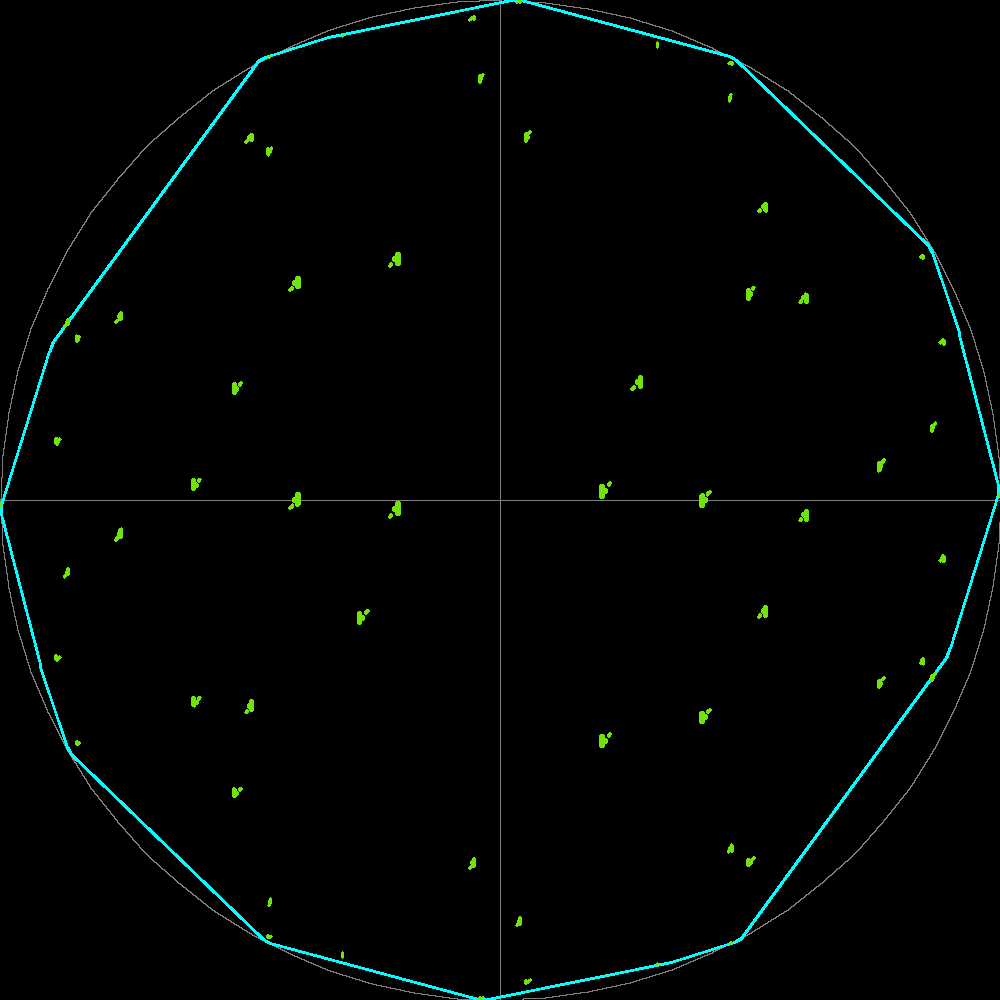
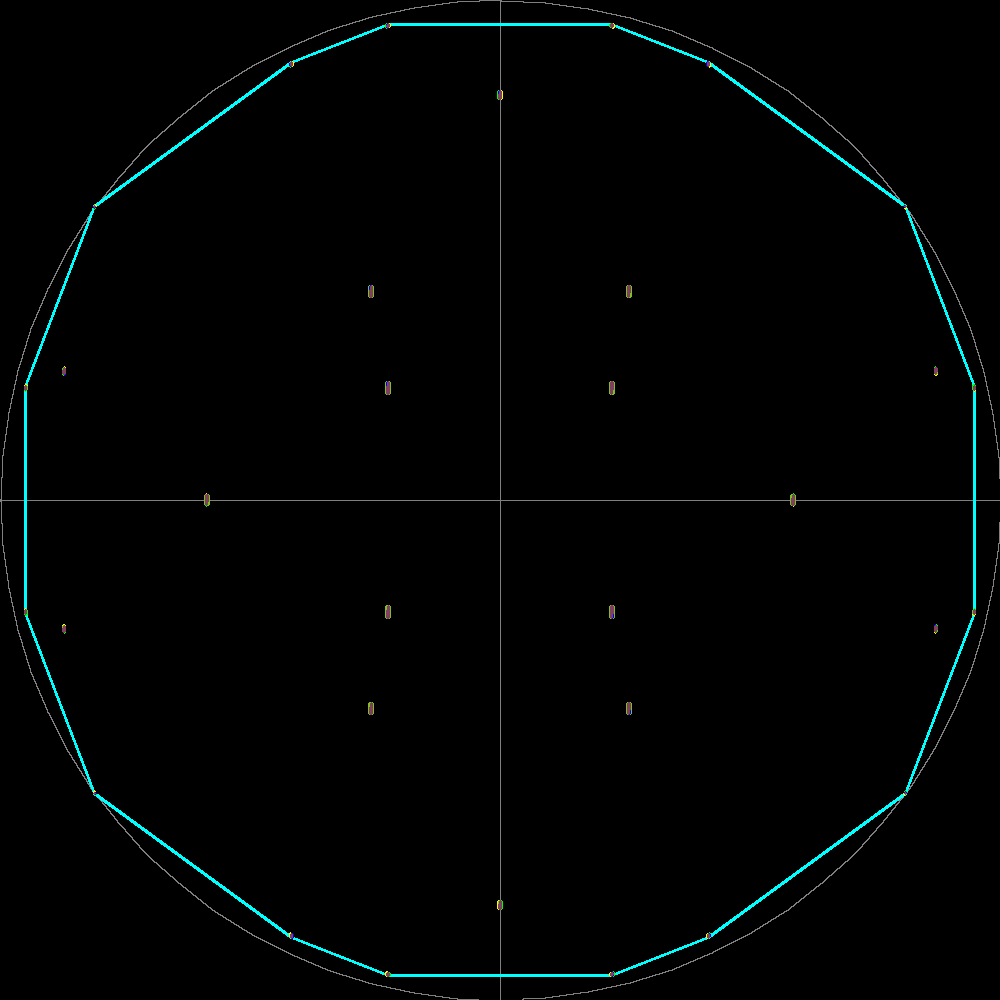
Using built-in boost interval methods globally

diff --git a/src/base.hpp b/src/base.hpp
@@ -9,7 +9,7 @@
 
 BOOST_GEOMETRY_REGISTER_BOOST_TUPLE_CS(cs::cartesian)
 
-using BoostInterval = boost::numeric::interval<
+using Interval = boost::numeric::interval<
     double,
     boost::numeric::interval_lib::policies<
         boost::numeric::interval_lib::save_state<
@@ -19,46 +19,25 @@ using BoostInterval = boost::numeric::interval<
     >
 >;
 
-struct Interval : BoostInterval {
-    Interval() : BoostInterval() {}
+inline std::ostream &operator<<(std::ostream &os, const Interval &interval) {
+    os << "[" << lower(interval) << ", " << upper(interval) << "]";
+    return os;
+}
 
-    Interval(const double value) : BoostInterval(value) {}
-
-    Interval(const double lower, const double upper) : BoostInterval(lower, upper) {}
-
-    Interval(const BoostInterval &interval) : BoostInterval(interval) {}
-
-    friend std::ostream &operator<<(std::ostream &os, const Interval &interval) {
-        os << "[" << interval.lower() << ", " << interval.upper() << "]";
-        return os;
+inline std::vector<Interval> divide(const Interval &interval, const int parts) {
+    std::vector<double> points;
+    points.push_back(lower(interval));
+    for(int i = 1; i < parts; i++) {
+        // points.push_back(lower() + i * length() / parts);
+        points.push_back(lower(interval) + i * width(interval) / parts);
     }
-
-    double length() const {
-        return upper() - lower();
+    points.push_back(upper(interval));
+    std::vector<Interval> intervals;
+    for(size_t i = 0; i < points.size() - 1; i++) {
+        intervals.emplace_back(points[i], points[i + 1]);
     }
-
-    double center() const {
-        return (lower() + upper()) / 2;
-    }
-
-    bool contains(const double value) const {
-        return lower() <= value && value <= upper();
-    }
-
-    std::vector<Interval> divide(const int parts) const {
-        std::vector<double> points;
-        points.push_back(lower());
-        for(int i = 1; i < parts; i++) {
-            points.push_back(lower() + i * length() / parts);
-        }
-        points.push_back(upper());
-        std::vector<Interval> intervals;
-        for(size_t i = 0; i < points.size() - 1; i++) {
-            intervals.emplace_back(points[i], points[i + 1]);
-        }
-        return intervals;
-    }
-};
+    return intervals;
+}
 
 struct Color {
     inline static const cv::Scalar BLACK = cv::Scalar(0, 0, 0);
@@ -291,21 +270,21 @@ struct Interval2 {
 
     Vector2d center() const {
         return {
-                    (theta.lower() + theta.upper()) / 2 / M_PI - 1,
-                    (phi.lower() + phi.upper()) / 2 / M_PI_2 - 1
+                    (lower(theta) + upper(theta)) / 2 / M_PI - 1,
+                    (lower(phi) + upper(phi)) / 2 / M_PI_2 - 1
                 };
     }
 
     Interval2 normalized() const {
         return {
-                    Interval(theta.lower() / M_PI - 1, theta.upper() / M_PI - 1),
-                    Interval(phi.lower() / M_PI_2 - 1, phi.upper() / M_PI_2 - 1)
+                    Interval(lower(theta) / M_PI - 1, upper(theta) / M_PI - 1),
+                    Interval(lower(phi) / M_PI_2 - 1, upper(phi) / M_PI_2 - 1)
                 };
     }
 
     cv::Scalar color() const {
-        const double x = (theta.lower() + theta.upper()) / 2 / (2 * M_PI);
-        const double y = (phi.lower() + phi.upper()) / 2 / M_PI;
+        const double x = (lower(theta) + upper(theta)) / 2 / (2 * M_PI);
+        const double y = (lower(phi) + upper(phi)) / 2 / M_PI;
         return Color::gradient(y,
                                Color::gradient(x, Color::bottom_left, Color::bottom_right),
                                Color::gradient(x, Color::top_left, Color::top_right));
@@ -313,19 +292,19 @@ struct Interval2 {
 
     std::vector<Vector2d> boundary(const Vector3d &v, const int theta_parts, int phi_parts) const {
         std::vector<Vector2d> points;
-        const double theta_step = theta.length() / theta_parts;
-        const double phi_step = phi.length() / phi_parts;
+        const double theta_step = width(theta) / theta_parts;
+        const double phi_step = width(phi) / phi_parts;
         for(int phi_i = 0; phi_i < phi_parts; phi_i++) {
-            points.push_back(v.project(theta.lower(), phi.lower() + phi_i * phi_step));
+            points.push_back(v.project(lower(theta), lower(phi) + phi_i * phi_step));
         }
         for(int theta_i = 0; theta_i < theta_parts; theta_i++) {
-            points.push_back(v.project(theta.lower() + theta_i * theta_step, phi.upper()));
+            points.push_back(v.project(lower(theta) + theta_i * theta_step, upper(phi)));
         }
         for(int phi_i = phi_parts; phi_i > 0; phi_i--) {
-            points.push_back(v.project(theta.upper(), phi.lower() + phi_i * phi_step));
+            points.push_back(v.project(upper(theta), lower(phi) + phi_i * phi_step));
         }
         for(int theta_i = theta_parts; theta_i > 0; theta_i--) {
-            points.push_back(v.project(theta.lower() + theta_i * theta_step, phi.lower()));
+            points.push_back(v.project(lower(theta) + theta_i * theta_step, lower(phi)));
         }
         return points;
     }
@@ -352,7 +331,7 @@ struct Interval2 {
                 };
         return std::ranges::any_of(solutions, [&](const double solution) {
             return 0 <= solution && solution <= 1 &&
-                   theta_interval.contains(mod((a + d * solution).get_angle() - Vector2(v.y, v.x).get_angle()));
+                   in(mod((a + d * solution).get_angle() - Vector2(v.y, v.x).get_angle()), theta_interval);
         });
     }
 
@@ -366,11 +345,11 @@ struct Interval2 {
         const Vector2 coefficient(v.x * cos_theta + v.y * sin_theta, -v.z);
         const double r = coefficient.norm();
         const double shift = coefficient.get_angle();
-        const double y_0 = r * std::cos(phi_interval.lower() - shift);
-        const double y_1 = r * std::cos(phi_interval.upper() - shift);
-        const double min_y = phi_interval.contains(mod(shift + M_PI)) ? -1
+        const double y_0 = r * std::cos(lower(phi_interval) - shift);
+        const double y_1 = r * std::cos(upper(phi_interval) - shift);
+        const double min_y = in(mod(shift + M_PI), phi_interval) ? -1
                                  : std::min(y_0, y_1);
-        const double max_y = phi_interval.contains(mod(shift)) ? 1
+        const double max_y = in(mod(shift), phi_interval) ? 1
                                  : std::max(y_0, y_1);
         const auto [dx, dy] = vertex_1 - vertex_0;
         const double y = vertex_0.y + dy * (x - vertex_0.x) / dx;
@@ -378,17 +357,17 @@ struct Interval2 {
     }
 
     bool intersects_line(const Vector3d &v, const Vector2d &vertex_0, const Vector2d &vertex_1) const {
-        return intersects_line_fixed_phi(v, vertex_0, vertex_1, theta, phi.lower()) ||
-               intersects_line_fixed_phi(v, vertex_0, vertex_1, theta, phi.upper()) ||
-               intersects_line_fixed_theta(v, vertex_0, vertex_1, theta.lower(), phi) ||
-               intersects_line_fixed_theta(v, vertex_0, vertex_1, theta.upper(), phi);
+        return intersects_line_fixed_phi(v, vertex_0, vertex_1, theta, lower(phi)) ||
+               intersects_line_fixed_phi(v, vertex_0, vertex_1, theta, upper(phi)) ||
+               intersects_line_fixed_theta(v, vertex_0, vertex_1, lower(theta), phi) ||
+               intersects_line_fixed_theta(v, vertex_0, vertex_1, upper(theta), phi);
     }
 
     bool intersects_polygon(const Vector3d &v, const std::vector<Vector2d> &vertices, const std::vector<double> &angles) const {
-        if(v.project(theta.lower(), phi.lower()).is_inside_polygon(vertices, angles) ||
-           v.project(theta.lower(), phi.upper()).is_inside_polygon(vertices, angles) ||
-           v.project(theta.upper(), phi.lower()).is_inside_polygon(vertices, angles) ||
-           v.project(theta.upper(), phi.upper()).is_inside_polygon(vertices, angles)) {
+        if(v.project(lower(theta), lower(phi)).is_inside_polygon(vertices, angles) ||
+           v.project(lower(theta), upper(phi)).is_inside_polygon(vertices, angles) ||
+           v.project(upper(theta), lower(phi)).is_inside_polygon(vertices, angles) ||
+           v.project(upper(theta), upper(phi)).is_inside_polygon(vertices, angles)) {
             return true;
         }
         for(size_t from = 0, to = 1; to < vertices.size(); from++, to++) {

diff --git a/main.cpp b/main.cpp
@@ -27,20 +27,23 @@ void setup() {
 }
 
 void draw() {
-    Interval hole_alpha(1.19, 1.2);
-    Interval hole_theta(0.49, 0.5);
-    Interval hole_phi(0.59, 0.6);
+    // Interval hole_alpha(1.19, 1.2);
+    // Interval hole_theta(0.49, 0.5);
+    // Interval hole_phi(0.59, 0.6);
+    Interval hole_alpha(0);
+    Interval hole_theta(0);
+    Interval hole_phi(-0.01, 0.01);
     std::vector<Vector2d> hole_all;
-    for(const Interval &alpha: hole_alpha.divide(10)) {
-        for(const Interval &theta: hole_theta.divide(10)) {
-            for(const Interval &phi: hole_phi.divide(10)) {
+    for(const Interval &alpha: divide(hole_alpha, 10)) {
+        for(const Interval &theta: divide(hole_theta, 10)) {
+            for(const Interval &phi: divide(hole_phi, 10)) {
                 for(const Vector3d &vertex: polyhedron) {
                     const Vector2I v_project = Vector3I(vertex.x, vertex.y, vertex.z).project(theta, phi);
                     const auto [x, y] = v_project.rotate(alpha);
-                    hole_all.emplace_back(x.lower(), y.lower());
-                    hole_all.emplace_back(x.lower(), y.upper());
-                    hole_all.emplace_back(x.upper(), y.lower());
-                    hole_all.emplace_back(x.upper(), y.upper());
+                    hole_all.emplace_back(lower(x), lower(y));
+                    hole_all.emplace_back(lower(x), upper(y));
+                    hole_all.emplace_back(upper(x), lower(y));
+                    hole_all.emplace_back(upper(x), upper(y));
                 }
             }
         }
@@ -57,7 +60,7 @@ void draw() {
 
     Intervals boxes(4, 4);
     const auto start = std::chrono::high_resolution_clock::now();
-    for(int t = 0; t < 9400; t++) {
+    for(int t = 0; t < 10000; t++) {
         if(boxes.empty()) {
             std::cout << std::format("Empty after {} iterations", t) << std::endl;
             break;
@@ -66,12 +69,12 @@ void draw() {
         bool any_outside = false;
         for(const Vector3d &v: polyhedron) {
             const auto &[x, y] = Vector3I(v.x, v.y, v.z).project(box.theta, box.phi);
-            const bool intersects = (x.contains(0) && y.contains(0)) |
-                                    Vector2(x.lower(), y.lower()).is_inside_polygon(hole, hole_angles) |
-                                    Vector2(x.lower(), y.upper()).is_inside_polygon(hole, hole_angles) |
-                                    Vector2(x.upper(), y.lower()).is_inside_polygon(hole, hole_angles) |
-                                    Vector2(x.upper(), y.upper()).is_inside_polygon(hole, hole_angles);
-            // bool intersects = box.intersects_polygon(v, hole, hole_angles);
+            const bool intersects = (in(0.0, x) && in(0.0, y)) |
+                                    Vector2(lower(x), lower(y)).is_inside_polygon(hole, hole_angles) |
+                                    Vector2(lower(x), upper(y)).is_inside_polygon(hole, hole_angles) |
+                                    Vector2(upper(x), lower(y)).is_inside_polygon(hole, hole_angles) |
+                                    Vector2(upper(x), upper(y)).is_inside_polygon(hole, hole_angles);
+            // const bool intersects = box.intersects_polygon(v, hole, hole_angles);
             if(!intersects) {
                 any_outside = true;
                 break;
@@ -90,7 +93,7 @@ void draw() {
         plot_boxes.filled_box(box.normalized(), box.color());
         for(const Vector3d &vertex: polyhedron) {
             plot_main.polygon(box.boundary(vertex, 10, 10), box.color(), 2);
-            plot_main.point(vertex.project(box.theta.center(), box.phi.center()), box.color());
+            plot_main.point(vertex.project(median(box.theta), median(box.phi)), box.color());
         }
     }
 }

diff --git a/src/plot.hpp b/src/plot.hpp
@@ -74,18 +74,18 @@ public:
     }
 
     void box(const Interval2 &interval2, const cv::Scalar &color = Color::WHITE, const int thickness = 1) {
-        line({interval2.theta.lower(), interval2.phi.lower()}, {interval2.theta.lower(), interval2.phi.upper()}, color, thickness);
-        line({interval2.theta.lower(), interval2.phi.upper()}, {interval2.theta.upper(), interval2.phi.upper()}, color, thickness);
-        line({interval2.theta.upper(), interval2.phi.upper()}, {interval2.theta.upper(), interval2.phi.lower()}, color, thickness);
-        line({interval2.theta.upper(), interval2.phi.lower()}, {interval2.theta.lower(), interval2.phi.lower()}, color, thickness);
+        line({lower(interval2.theta), lower(interval2.phi)}, {lower(interval2.theta), upper(interval2.phi)}, color, thickness);
+        line({lower(interval2.theta), upper(interval2.phi)}, {upper(interval2.theta), upper(interval2.phi)}, color, thickness);
+        line({upper(interval2.theta), upper(interval2.phi)}, {upper(interval2.theta), lower(interval2.phi)}, color, thickness);
+        line({upper(interval2.theta), lower(interval2.phi)}, {lower(interval2.theta), lower(interval2.phi)}, color, thickness);
     }
 
     void filled_box(const Interval2 &box, const cv::Scalar &color = Color::WHITE) {
         const std::vector<Vector2d> vertices = {
-                    {box.theta.lower(), box.phi.lower()},
-                    {box.theta.lower(), box.phi.upper()},
-                    {box.theta.upper(), box.phi.upper()},
-                    {box.theta.upper(), box.phi.lower()}
+                    {lower(box.theta), lower(box.phi)},
+                    {lower(box.theta), upper(box.phi)},
+                    {upper(box.theta), upper(box.phi)},
+                    {upper(box.theta), lower(box.phi)}
                 };
         filled_polygon(vertices, color);
     }

diff --git a/src/boxes.hpp b/src/boxes.hpp
@@ -4,8 +4,8 @@
 
 struct Intervals : std::queue<Interval2> {
     Intervals(const int theta_parts, const int phi_parts) {
-        for(const Interval &theta: Interval(0, 2 * M_PI).divide(theta_parts)) {
-            for(const Interval &phi: Interval(0, M_PI).divide(phi_parts)) {
+        for(const Interval &theta: divide(Interval(0, 2 * M_PI),theta_parts)) {
+            for(const Interval &phi: divide(Interval(0, M_PI),phi_parts)) {
                 emplace(theta, phi);
             }
         }
@@ -22,9 +22,9 @@ struct Intervals : std::queue<Interval2> {
     }
 
     void push_quad(const Interval2 &box) {
-        push({{box.theta.lower(), box.theta.center()}, {box.phi.lower(), box.phi.center()}});
-        push({{box.theta.lower(), box.theta.center()}, {box.phi.center(), box.phi.upper()}});
-        push({{box.theta.center(), box.theta.upper()}, {box.phi.lower(), box.phi.center()}});
-        push({{box.theta.center(), box.theta.upper()}, {box.phi.center(), box.phi.upper()}});
+        push({{lower(box.theta), median(box.theta)}, {lower(box.phi), median(box.phi)}});
+        push({{lower(box.theta), median(box.theta)}, {median(box.phi), upper(box.phi)}});
+        push({{median(box.theta), upper(box.theta)}, {lower(box.phi), median(box.phi)}});
+        push({{median(box.theta), upper(box.theta)}, {median(box.phi), upper(box.phi)}});
     }
 };

diff --git a/src/test.hpp b/src/test.hpp
@@ -174,12 +174,12 @@ inline void test_intervals() {
                 boost::numeric::interval_lib::rounded_transc_std<double>>,
             boost::numeric::interval_lib::checking_base<double>>>;
     auto pi = boost::numeric::interval_lib::pi<I>();
-    std::cout << std::setprecision(20) << pi.lower() << std::endl;
-    std::cout << std::setprecision(20) << pi.upper() << std::endl;
+    std::cout << std::setprecision(20) << lower(pi) << std::endl;
+    std::cout << std::setprecision(20) << upper(pi) << std::endl;
     I sin_pi = boost::numeric::sin(pi);
-    std::cout << std::setprecision(20) << sin_pi.lower() << std::endl;
-    std::cout << std::setprecision(20) << sin_pi.upper() << std::endl;
+    std::cout << std::setprecision(20) << lower(sin_pi) << std::endl;
+    std::cout << std::setprecision(20) << upper(sin_pi) << std::endl;
     I sin_pi_reciprocal = 1.0 / sin_pi;
-    std::cout << std::setprecision(20) << sin_pi_reciprocal.lower() << std::endl;
-    std::cout << std::setprecision(20) << sin_pi_reciprocal.upper() << std::endl;
+    std::cout << std::setprecision(20) << lower(sin_pi_reciprocal) << std::endl;
+    std::cout << std::setprecision(20) << upper(sin_pi_reciprocal) << std::endl;
 }
